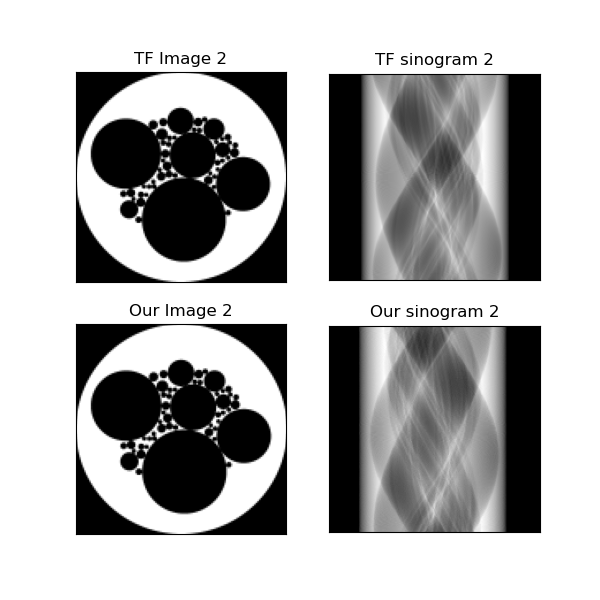
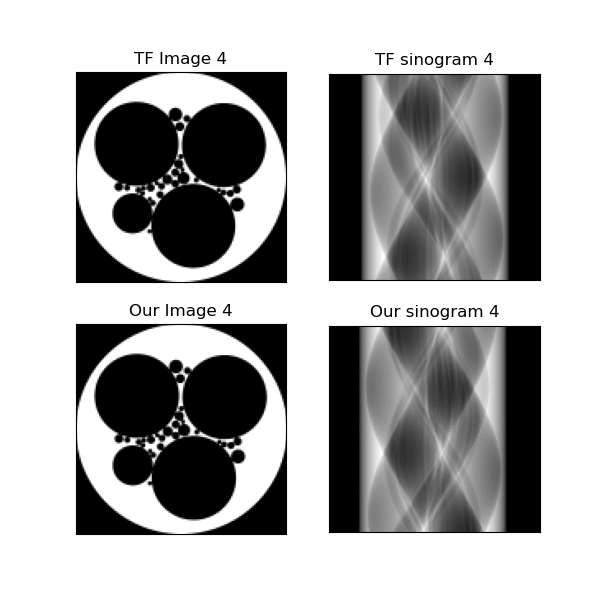
June 15

diff --git a/dataset_foam/Gary_Radon_Transform.py b/dataset_foam/Gary_Radon_Transform.py
@@ -1,0 +1,233 @@
+### Author: Gary Chen
+### Date: June 13, 2023
+### Last Updated: Jun 15, 2023
+### Description: Radon Transform (img to sinogram)
+###     There's still some bug; 
+###     The sinograms look like a sinograms but the second col arent the same.
+
+try:
+    import numpy as np
+except Exception as e:
+    print("numpy Importing exception")
+try:
+    import matplotlib.pyplot as plt
+except Exception as e:
+    print("matplotlib Importing exception")
+try:
+    import torch
+except Exception as e:
+    print("torch Importing exception")  
+try:
+    import torchvision.transforms.functional as F
+except Exception as e:
+    print("torch Importing exception")  
+from torchvision import transforms
+
+#%time # on Jupyter Notebook
+
+class Data_loader:
+    # load .npy file into PyTorch tensor and move it to GPU
+    def __init__(self):
+        self.device = torch.device('cuda' if torch.cuda.is_available() else 'cpu')
+
+    def npy_to_tensor(self, npy_file_path):
+        np_data = np.load(npy_file_path)
+        tensor = torch.from_numpy(np_data).to(self.device)
+        return tensor
+
+
+class Radon_Transform:
+    # convert the img to sinogram
+    def __init__(self):
+        self.theta_num = 180
+        
+    def img_to_rotated_imgs(self, image):
+        # initialize the collection of rotated iamges as 180 by 128 by 128 empty arrays
+        rotated_imgs = torch.zeros((self.theta_num,128, 128))
+        # assign the unrotated img as the first img in the rotated collection
+        rotated_imgs[0,:,:] = image
+        for i in range(1,theta_num):
+            rotated_image = F.rotate(image.unsqueeze(0), float(i)) #rotate function requires img in 3-d dimension
+            rotated_imgs[i,:,:] = rotated_image
+        return rotated_imgs
+    
+    def rotated_imgs_to_sinogram(self, rotated_images):
+        # initialize the summing vector
+        sum_vec = torch.ones((size_x, 1))
+        sinogram = torch.zeros((180, 184))
+        for i in range(theta_num):
+            # ith_p is the i-th row of the sinogram corresponding to each angle
+            ith_p = torch.matmul(rotated_images[i,:,:],sum_vec)/180 # 128 by 128 @ 128 by 1 means sum across the all rows of the img
+            # Calculate start index for ith row in the sinogram 
+            start = (sinogram.shape[0] - ith_p.shape[0]) // 2
+            # Assign p values to the ith row of the sinogram, centered
+            sinogram[i,start:start+ith_p.shape[0]] = ith_p.reshape(-1)
+        return sinogram 
+
+class Display_Image:
+    # display the images and sinograms and compare our implementations with CT-PVAE
+    
+    def display_rotated_imgs(self, rotated_images, img_id):
+        rotate_fig, ax = plt.subplots(1, 3, figsize=(10, 6))
+        ax[0].imshow(rotated_images[0,:,:].cpu().numpy(), cmap='gray')
+        ax[0].set_xticks([])
+        ax[0].set_yticks([])
+        ax[0].set_title(f'img {img_id} rotated 0')
+        ax[1].imshow(rotated_images[90,:,:].cpu().numpy(), cmap='gray')
+        ax[1].set_xticks([])
+        ax[1].set_yticks([])
+        ax[1].set_title(f'img {img_id} rotated 90')
+        ax[2].imshow(rotated_images[179,:,:].cpu().numpy(), cmap='gray')
+        ax[2].set_xticks([])
+        ax[2].set_yticks([])
+        ax[2].set_title(f'img {img_id} rotated 179')
+        rotate_fig.savefig(f"rotate images {img_id}")
+        plt.show()
+    
+    def display_radon_transform(self, img, img_id, tf_sinogram,pt_sinogram):
+        # Create a figure and a 1x2 subplot grid
+        fig, axs = plt.subplots(2, 2, figsize=(6, 6))
+        axs[0,0].imshow(img.cpu().numpy(), cmap='gray')  # remove cmap='gray' if your image is colored
+        axs[0,0].set_title(f'TF Image {img_id}')
+        axs[0,1].imshow(tf_sinogram.cpu().numpy(), cmap='gray')  # remove cmap='gray' if your image is colored
+        axs[0,1].set_title(f'TF sinogram {img_id}')
+        axs[1,0].imshow(img.cpu().numpy(), cmap='gray')  # remove cmap='gray' if your image is colored
+        axs[1,1].imshow(pt_sinogram.cpu().numpy(), cmap='gray')  # remove cmap='gray' if your image is colored
+        axs[1,0].set_title(f'PT Image {img_id}')
+        axs[1,1].set_title(f'PT sinogram {img_id}')
+
+        # Remove the x and y ticks
+        axs[0,0].set_xticks([])
+        axs[0,0].set_yticks([])
+        axs[0,1].set_xticks([])
+        axs[0,1].set_yticks([])
+        axs[1,0].set_xticks([])
+        axs[1,0].set_yticks([])
+        axs[1,1].set_xticks([])
+        axs[1,1].set_yticks([])
+        
+        fig.savefig(f"radon comp {img_id}")
+        plt.show()
+
+if torch.cuda.is_available():
+    device = torch.device('cuda')
+else:
+    device = torch.device('cpu')
+print(f'Using device: {device}')
+
+img_id = 4 # adjust this id from 0 to 50 for any images in the dataset
+# Load the images and sinograms .npy file to tensor on cuda
+images = np.load('foam_training.npy')
+images_tensor = torch.from_numpy(images).to(device)
+print("images shape", images_tensor.shape)
+image1 = images_tensor[img_id,:,:]
+print("image1 shape", image1.shape)
+print("image1 dtpye", image1.dtype)
+
+sinograms = np.load('x_train_sinograms.npy')
+sinograms_tensor = torch.from_numpy(sinograms).to(device)
+print("sinograms shape", sinograms.shape)
+sinogram1 = sinograms_tensor[img_id,:,:]
+print("sinogram shape", sinogram1.shape)
+print("sinogram dtpye", sinogram1.dtype)
+
+
+#hyperparameters
+t_num = 184 # pixel number on the discretized detector
+theta_num = 180 # number of projections
+size_x = image1.shape[0]
+size_y = image1.shape[1]
+
+#initialize sinogram as a black img
+mysinogram = torch.zeros((180, 184))
+
+# initialize the collection of rotated iamges as 180 by 128 by 128 empty arrays
+rotated_imgs = torch.zeros((theta_num,128, 128))
+# assign the unrotated img as the first img in the rotated collection
+
+rotated_imgs[0,:,:] = image1
+
+
+for i in range(1,theta_num):
+    rotated_image = F.rotate(image1.unsqueeze(0), float(i)) #rotate function requires img in 3-d dimension
+    rotated_imgs[i,:,:] = rotated_image
+
+
+# initialize the summing vector
+sum_vec = torch.ones((size_x, 1))
+print(f"sum_vec has shape {sum_vec.shape}")
+for i in range(theta_num):
+    # ith_p is the i-th row of the sinogram corresponding to each angle
+    ith_p = torch.matmul(rotated_imgs[i,:,:],sum_vec)/180 # 128 by 128 @ 128 by 1 means sum across the all rows of the img
+    # Calculate start index for ith row in the sinogram 
+    start = (mysinogram.shape[0] - ith_p.shape[0]) // 2
+    # Assign p values to the ith row of the sinogram, centered
+    mysinogram[i,start:start+ith_p.shape[0]] = ith_p.reshape(-1)
+
+# Display images for radon transform
+
+# create figure for intermediate visualization
+rotate_fig, ax = plt.subplots(1, 3, figsize=(10, 6))
+ax[0].imshow(rotated_imgs[0,:,:].cpu().numpy(), cmap='gray')
+ax[0].set_xticks([])
+ax[0].set_yticks([])
+ax[0].set_title(f'img {img_id} rotated 0')
+ax[1].imshow(rotated_imgs[90,:,:].cpu().numpy(), cmap='gray')
+ax[1].set_xticks([])
+ax[1].set_yticks([])
+ax[1].set_title(f'img {img_id} rotated 90')
+ax[2].imshow(rotated_imgs[179,:,:].cpu().numpy(), cmap='gray')
+ax[2].set_xticks([])
+ax[2].set_yticks([])
+ax[2].set_title(f'img {img_id} rotated 179')
+
+# Create a figure and a 1x2 subplot grid
+fig, axs = plt.subplots(2, 2, figsize=(6, 6))
+
+axs[0,0].imshow(image1.cpu().numpy(), cmap='gray')  # remove cmap='gray' if your image is colored
+axs[0,0].set_title(f'TF Image {img_id}')
+axs[0,1].imshow(sinogram1.cpu().numpy(), cmap='gray')  # remove cmap='gray' if your image is colored
+axs[0,1].set_title(f'TF sinogram {img_id}')
+axs[1,0].imshow(image1.cpu().numpy(), cmap='gray')  # remove cmap='gray' if your image is colored
+axs[1,1].imshow(mysinogram.cpu().numpy(), cmap='gray')  # remove cmap='gray' if your image is colored
+axs[1,0].set_title(f'Our Image {img_id}')
+axs[1,1].set_title(f'Our sinogram {img_id}')
+
+# Remove the x and y ticks
+axs[0,0].set_xticks([])
+axs[0,0].set_yticks([])
+axs[0,1].set_xticks([])
+axs[0,1].set_yticks([])
+axs[1,0].set_xticks([])
+axs[1,0].set_yticks([])
+axs[1,1].set_xticks([])
+axs[1,1].set_yticks([])
+
+# Display the figure
+fig.savefig("radon comp")
+rotate_fig.savefig("rotate images")
+
+plt.show()
+
+data_loader = Data_loader()
+radon_tranformer = Radon_Transform()
+displayer = Display_Image()
+img_id = 2
+images_tensor = data_loader.npy_to_tensor('foam_training.npy')
+tf_sinograms_tensor = data_loader.npy_to_tensor('x_train_sinograms.npy')
+for img_id in range(6):
+    image = images_tensor[img_id,:,:]
+    rotated_images = radon_tranformer.img_to_rotated_imgs(image)
+    pt_sinogram = radon_tranformer.rotated_imgs_to_sinogram(rotated_images)
+    tf_sinogram = tf_sinograms_tensor[img_id,:,:]
+    displayer.display_rotated_imgs(rotated_images, img_id)
+    displayer.display_radon_transform(image, img_id, tf_sinogram,pt_sinogram)
+#print("images shape", images_tensor.shape)
+#print("image1 shape", image1.shape)
+#print("image1 dtpye", image1.dtype)
+#print("tf_sinograms_tensor shape", tf_sinograms_tensor.shape)
+#print("tf_sinogram shape", tf_sinogram.shape)
+#print("tf_sinogram dtpye", tf_sinogram.dtype)
+
+
+
